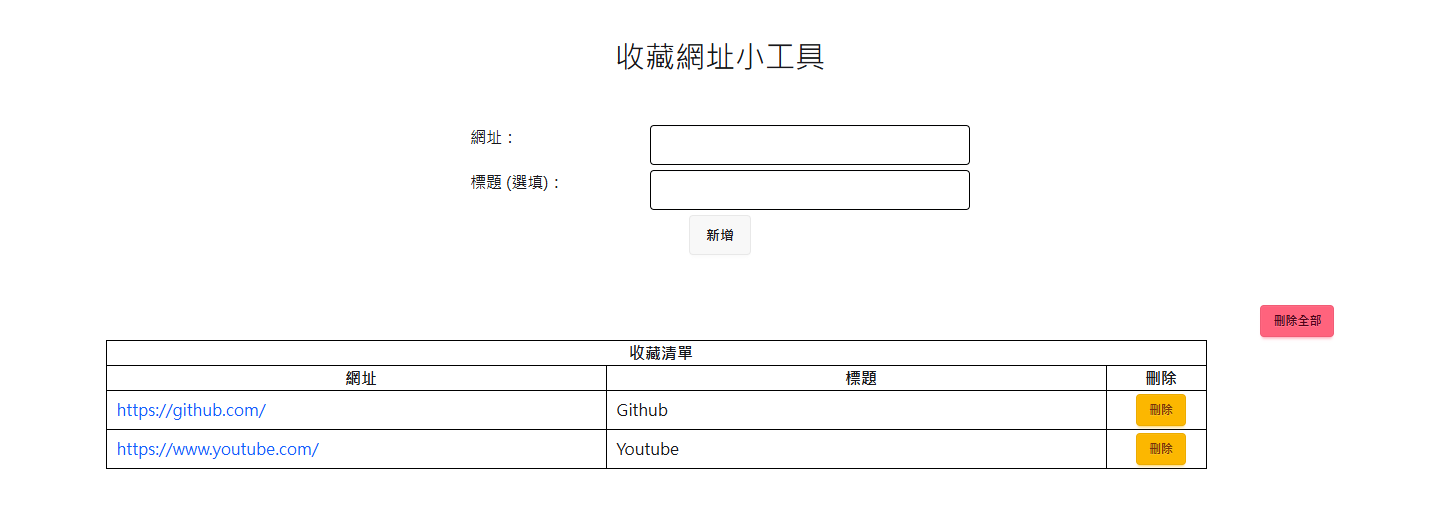
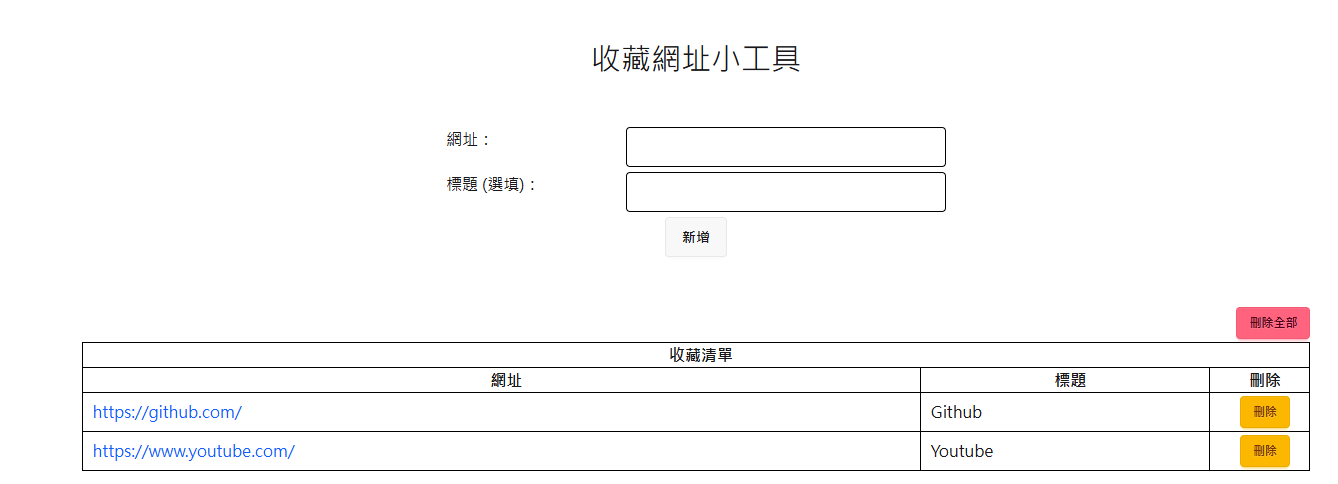
update

diff --git a/src/App.vue b/src/App.vue
@@ -104,7 +104,7 @@ const saveToLocal = () => {
     >
       <button @click="delAll" class="btn btn-error btn-sm">刪除全部</button>
     </div>
-    <table id="show-list" style="margin-top: 3px">
+    <table id="show-list" style="margin-top: 3px; width: 100%;">
       <thead>
         <tr>
           <th colspan="3">收藏清單</th>
@@ -157,10 +157,6 @@ td {
   padding-left: 10px;
 }
 
-.url-column,
-.title-column {
-  width: 500px;
-}
 
 .del-column {
   width: 100px;
